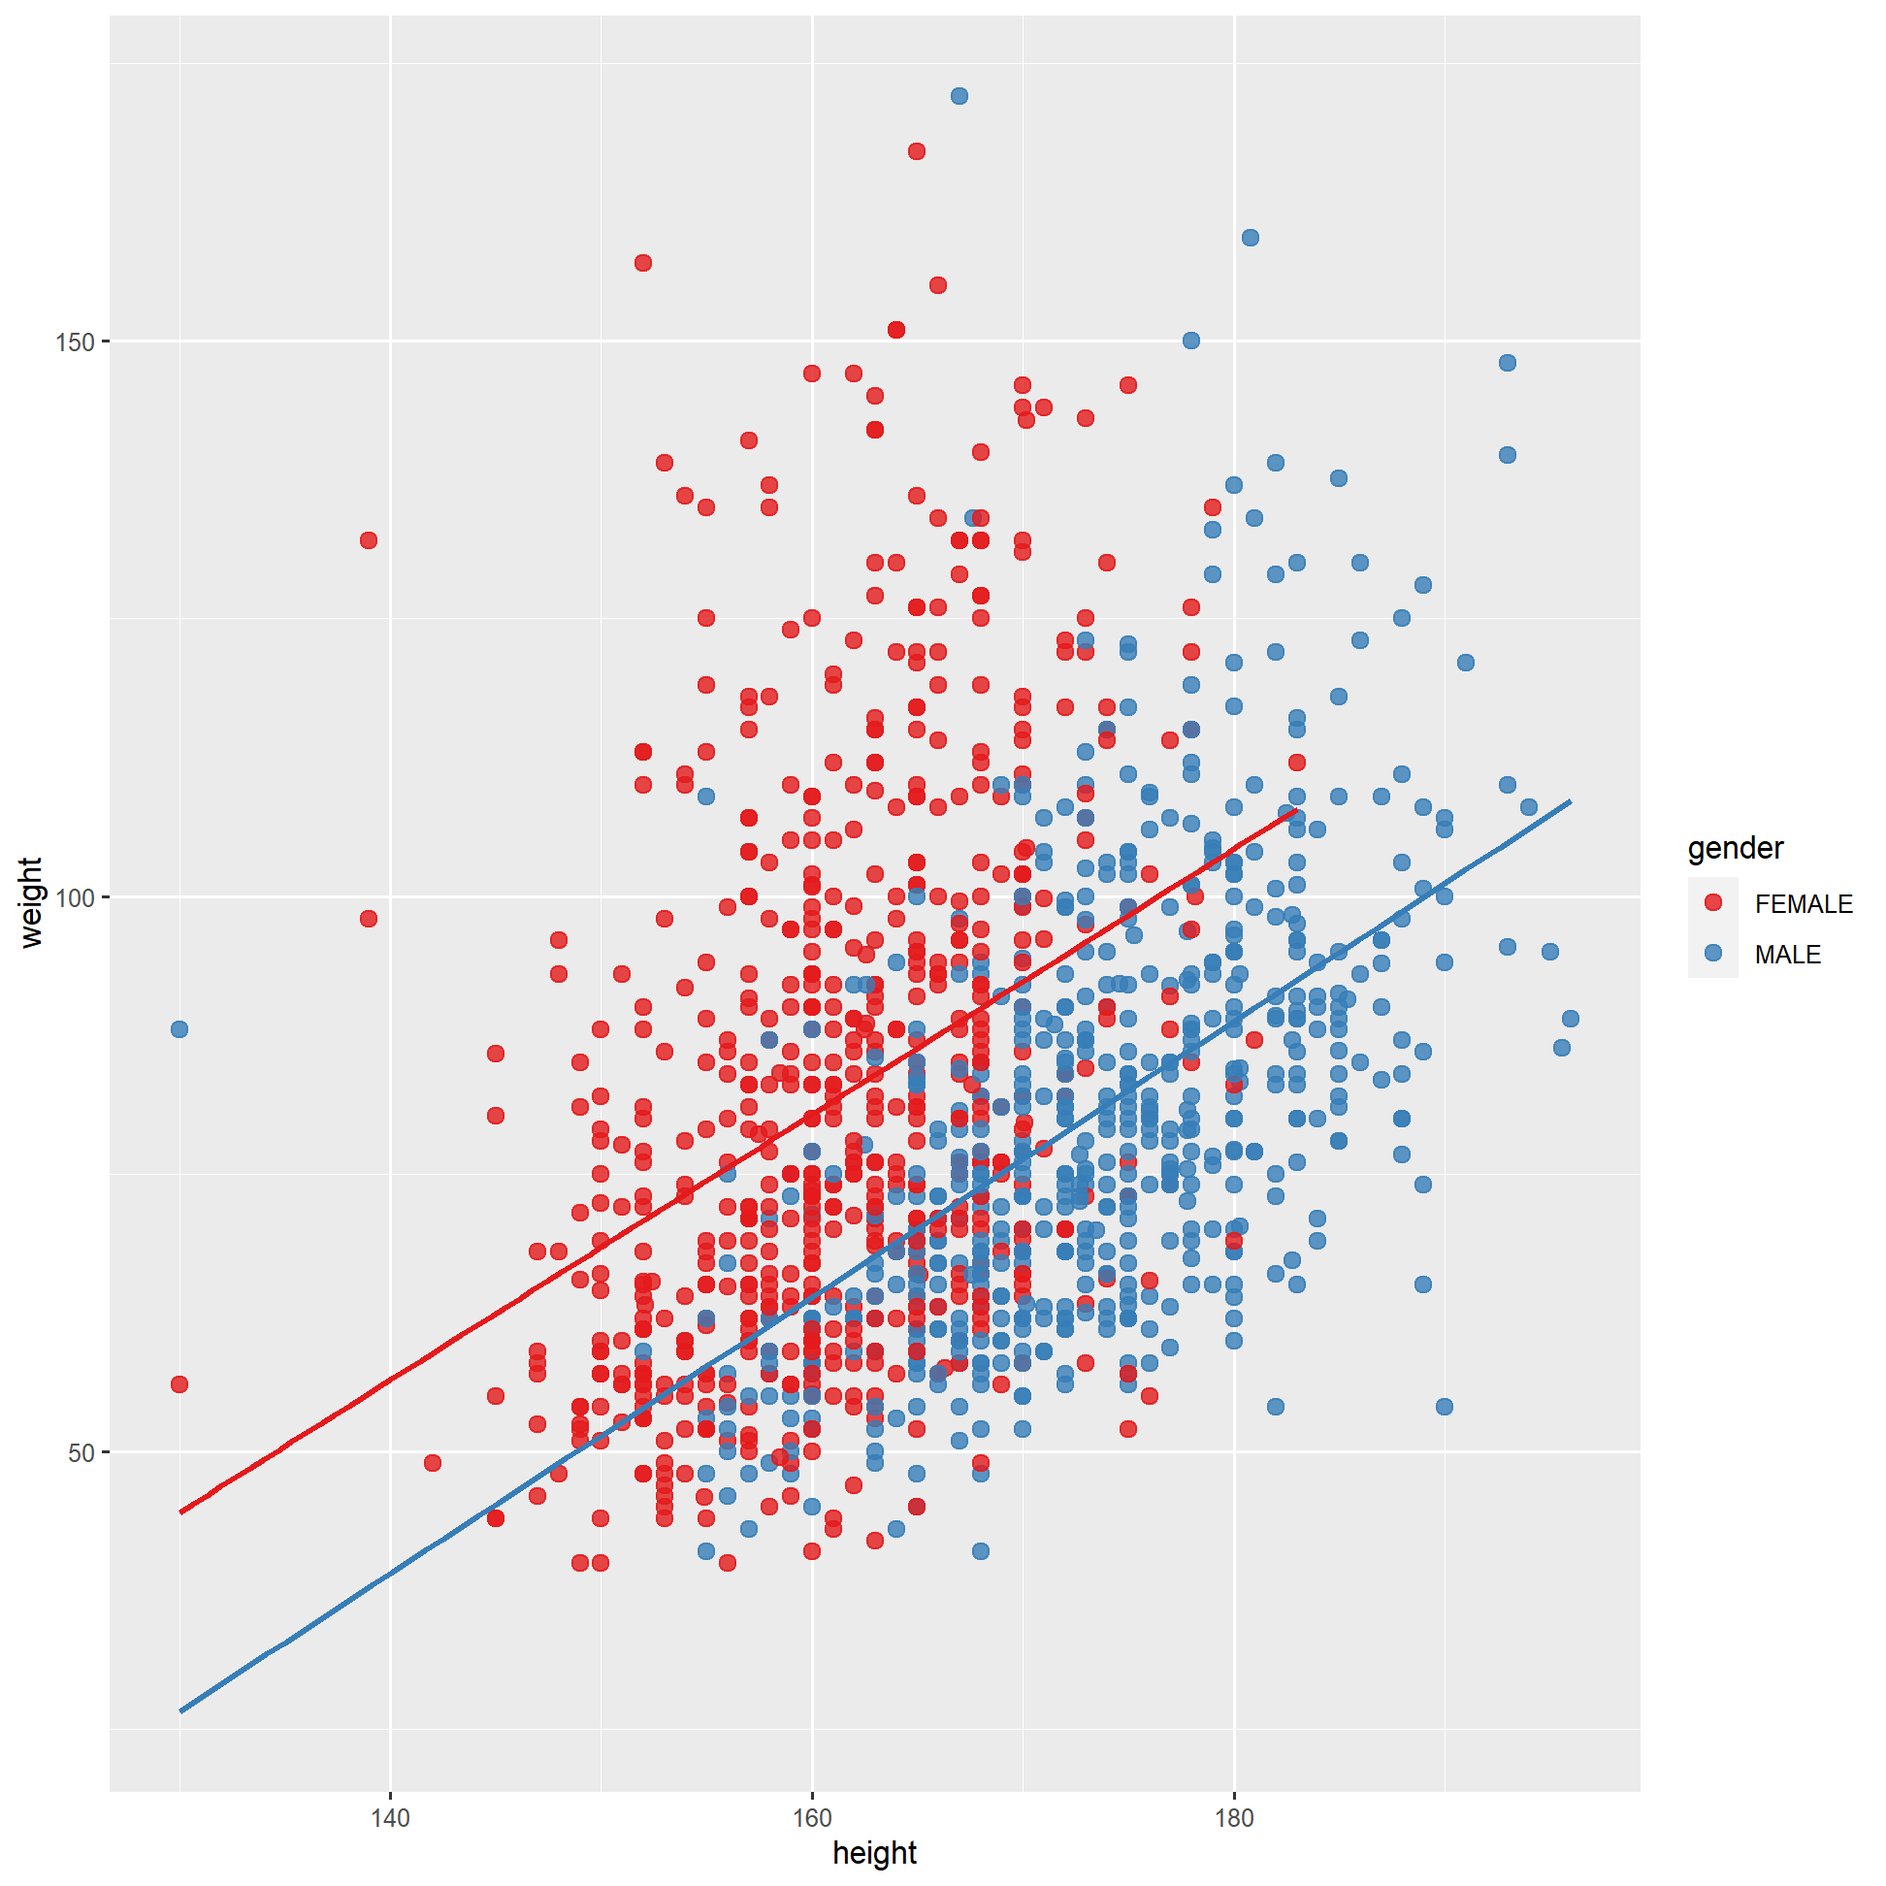
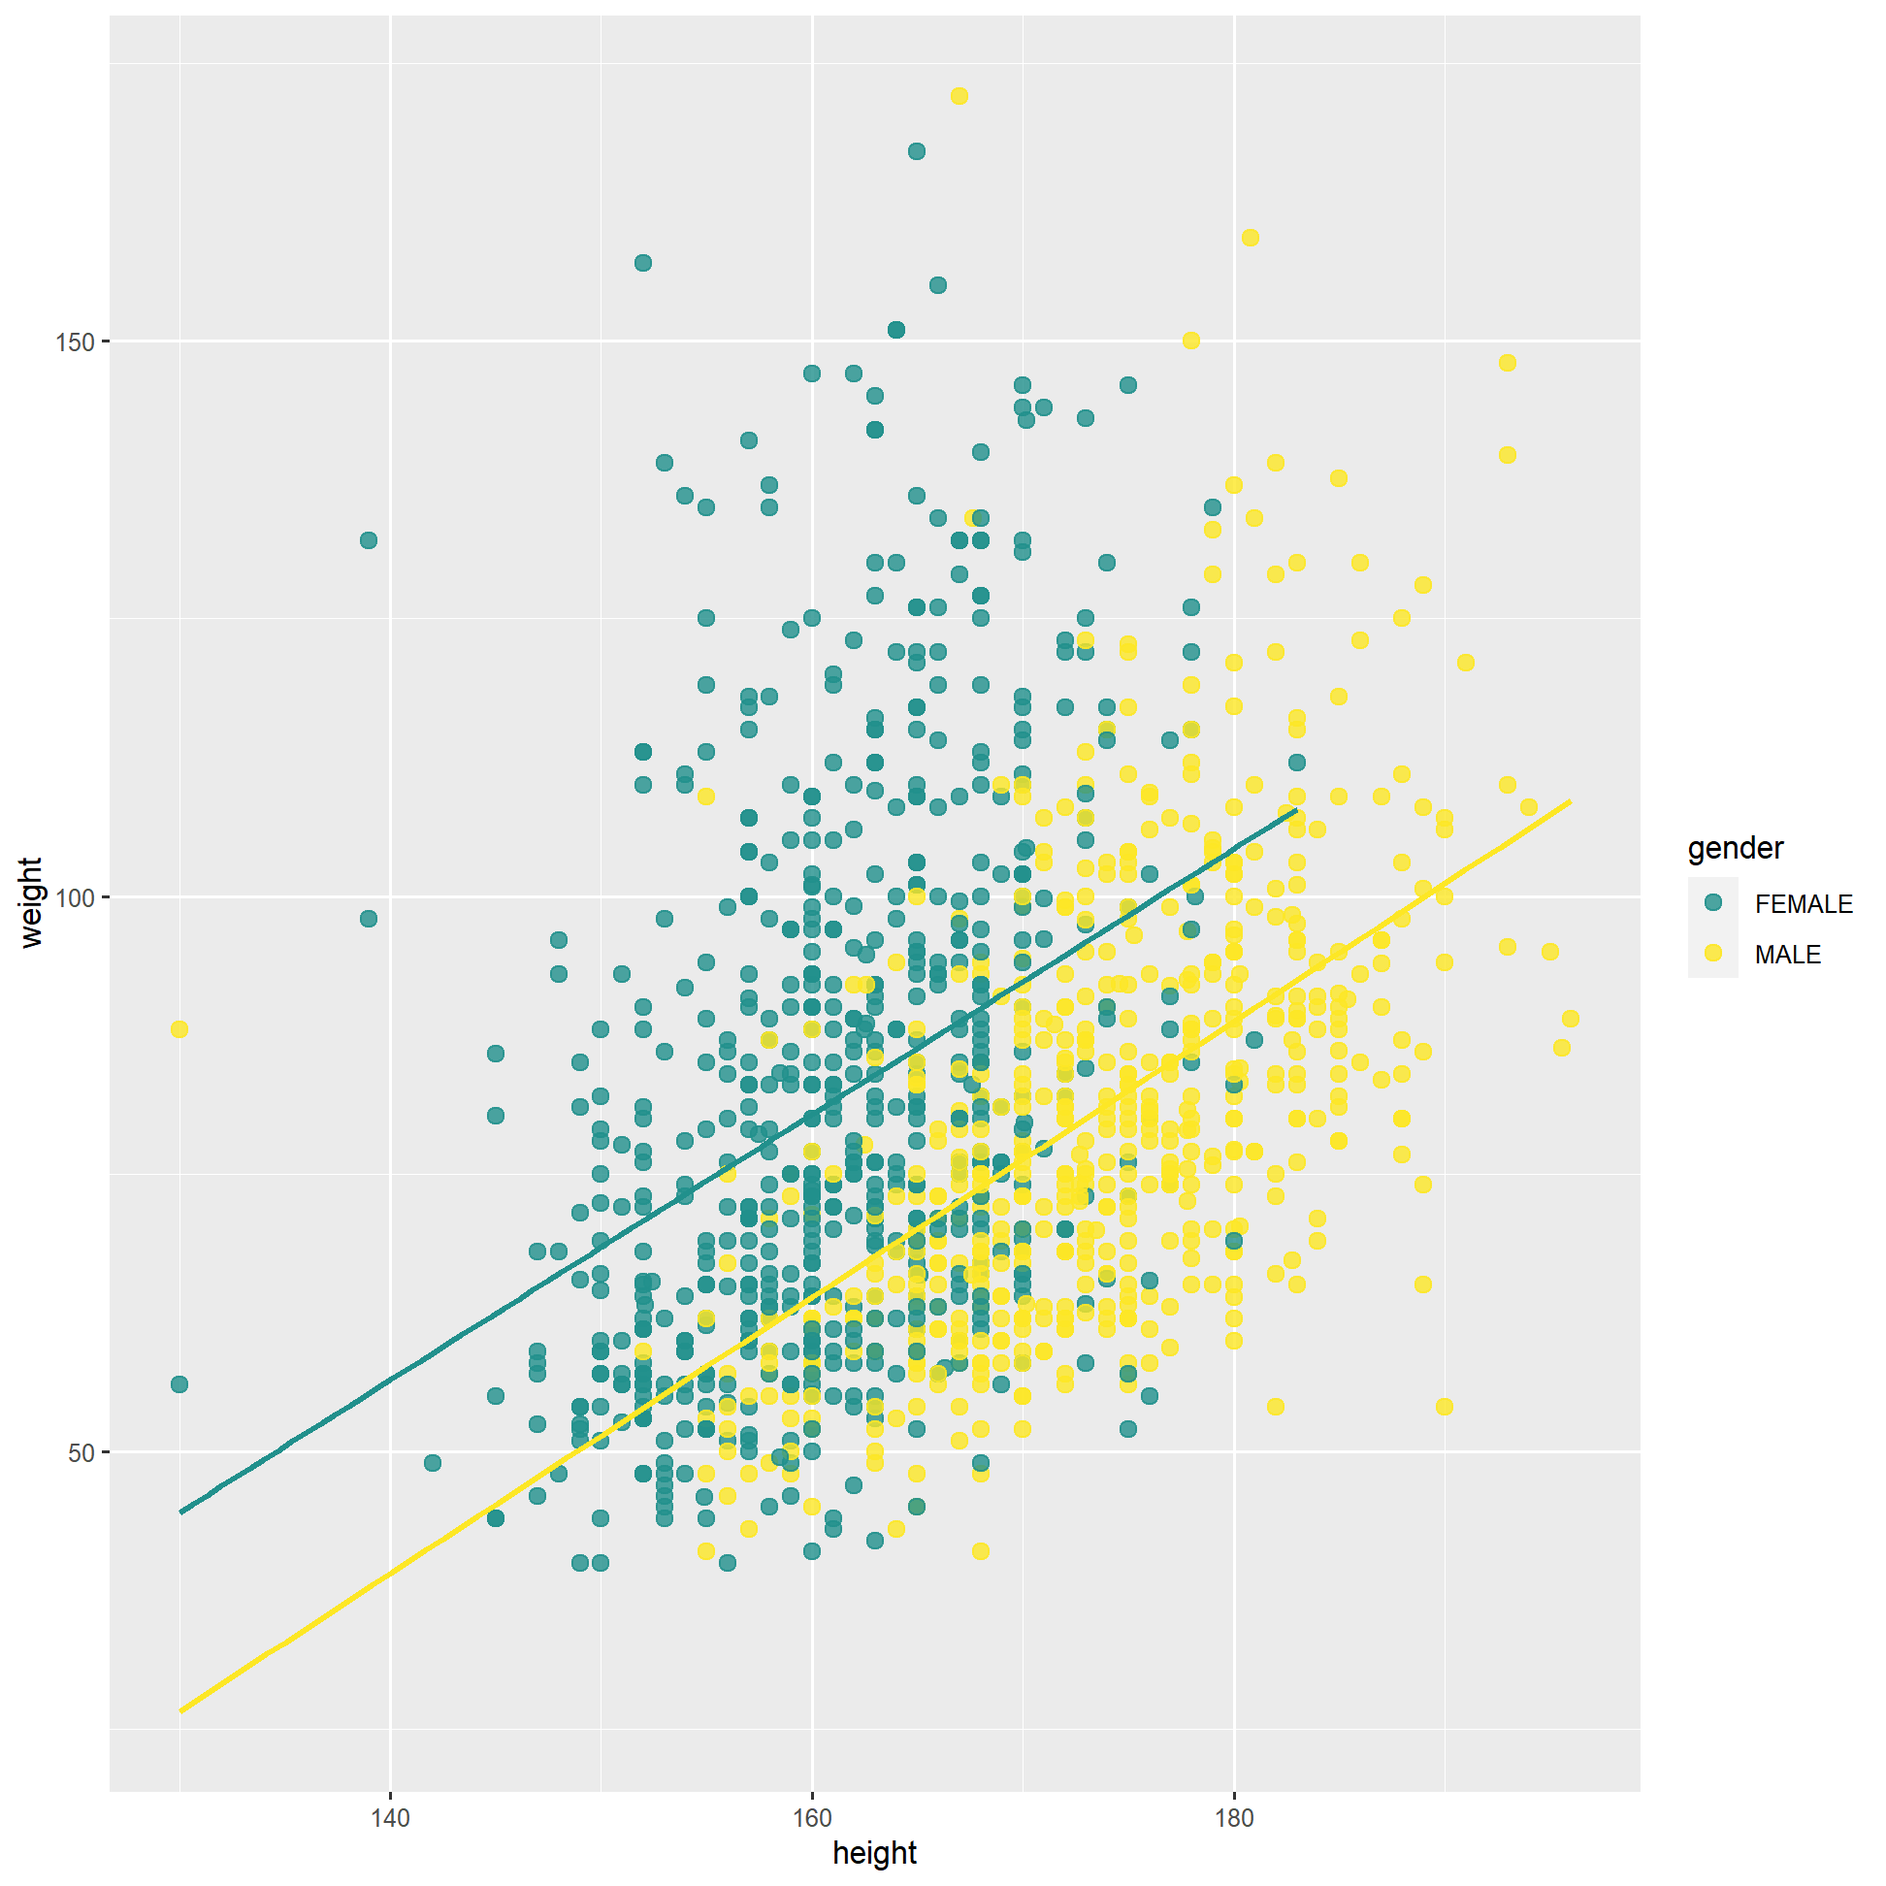
Edit last plot in the slides

diff --git a/slides/04_slide-datavisualization.html b/slides/04_slide-datavisualization.html
@@ -11,7 +11,7 @@
     <link href="libs/animate.css/animate.xaringan.css" rel="stylesheet" />
     <link href="libs/panelset/panelset.css" rel="stylesheet" />
     <script src="libs/panelset/panelset.js"></script>
-    <script type="application/json" id="xaringanExtra-editable-docid">{"id":"fd1c26c2d2f24e189c76d55d9825ad54","expires":14}</script>
+    <script type="application/json" id="xaringanExtra-editable-docid">{"id":"f415d6eb820548a9a6953afc8b14f4ef","expires":14}</script>
     <script src="libs/himalaya/himalaya.js"></script>
     <script src="libs/js-cookie/js.cookie.js"></script>
     <link href="libs/editable/editable.css" rel="stylesheet" />
@@ -285,12 +285,14 @@ ggplot(
 ]
 ]
 ---
-### [geom catalogue](https://ggplot2.tidyverse.org/reference/index.html#section-layers)
+### [&lt;svg viewBox="0 0 512 512" style="position:relative;display:inline-block;top:.1em;fill:skyblue;height:0.7em;" xmlns="http://www.w3.org/2000/svg"&gt;  &lt;path d="M326.612 185.391c59.747 59.809 58.927 155.698.36 214.59-.11.12-.24.25-.36.37l-67.2 67.2c-59.27 59.27-155.699 59.262-214.96 0-59.27-59.26-59.27-155.7 0-214.96l37.106-37.106c9.84-9.84 26.786-3.3 27.294 10.606.648 17.722 3.826 35.527 9.69 52.721 1.986 5.822.567 12.262-3.783 16.612l-13.087 13.087c-28.026 28.026-28.905 73.66-1.155 101.96 28.024 28.579 74.086 28.749 102.325.51l67.2-67.19c28.191-28.191 28.073-73.757 0-101.83-3.701-3.694-7.429-6.564-10.341-8.569a16.037 16.037 0 0 1-6.947-12.606c-.396-10.567 3.348-21.456 11.698-29.806l21.054-21.055c5.521-5.521 14.182-6.199 20.584-1.731a152.482 152.482 0 0 1 20.522 17.197zM467.547 44.449c-59.261-59.262-155.69-59.27-214.96 0l-67.2 67.2c-.12.12-.25.25-.36.37-58.566 58.892-59.387 154.781.36 214.59a152.454 152.454 0 0 0 20.521 17.196c6.402 4.468 15.064 3.789 20.584-1.731l21.054-21.055c8.35-8.35 12.094-19.239 11.698-29.806a16.037 16.037 0 0 0-6.947-12.606c-2.912-2.005-6.64-4.875-10.341-8.569-28.073-28.073-28.191-73.639 0-101.83l67.2-67.19c28.239-28.239 74.3-28.069 102.325.51 27.75 28.3 26.872 73.934-1.155 101.96l-13.087 13.087c-4.35 4.35-5.769 10.79-3.783 16.612 5.864 17.194 9.042 34.999 9.69 52.721.509 13.906 17.454 20.446 27.294 10.606l37.106-37.106c59.271-59.259 59.271-155.699.001-214.959z"&gt;&lt;/path&gt;&lt;/svg&gt; geom catalogue](https://ggplot2.tidyverse.org/reference/index.html#section-layers)
 
 
 
-<div id="htmlwidget-2b988d63e9f5825952c9" style="width:100%;height:auto;" class="datatables html-widget"></div>
-<script type="application/json" data-for="htmlwidget-2b988d63e9f5825952c9">{"x":{"filter":"none","fillContainer":false,"data":[["geom_abline(), geom_hline(), geom_vline()","geom_bar(), geom_col()","geom_bin2d()","geom_blank()","geom_boxplot()","geom_contour(), geom_contour_filled()","geom_count()","geom_density()","geom_density_2d(), geom_density_2d_filled()","geom_dotplot()","geom_errorbarh()","geom_function()","geom_hex()","geom_freqpoly(), geom_histogram()","geom_jitter()","geom_crossbar(), geom_errorbar(), geom_linerange(), geom_pointrange()","geom_map()","geom_path(), geom_line(), geom_step()","geom_point()","geom_polygon()","geom_qq_line(), geom_qq()","geom_quantile()","geom_ribbon(), geom_area()","geom_rug()","geom_segment(), geom_curve()","geom_smooth()","geom_spoke()","geom_label(), geom_text()","geom_raster(), geom_rect(), geom_tile()","geom_violin()","coord_sf(), geom_sf(), geom_sf_label(), geom_sf_text()"],["Reference lines: horizontal, vertical, and diagonal","Bar charts","Heatmap of 2d bin counts","Draw nothing","A box and whiskers plot (in the style of Tukey)","2D contours of a 3D surface","Count overlapping points","Smoothed density estimates","Contours of a 2D density estimate","Dot plot","Horizontal error bars","Draw a function as a continuous curve","Hexagonal heatmap of 2d bin counts","Histograms and frequency polygons","Jittered points","Vertical intervals: lines, crossbars &amp; errorbars","Polygons from a reference map","Connect observations","Points","Polygons","A quantile-quantile plot","Quantile regression","Ribbons and area plots","Rug plots in the margins","Line segments and curves","Smoothed conditional means","Line segments parameterised by location, direction and distance","Text","Rectangles","Violin plot","Visualise sf objects"]],"container":"<table class=\"display\">\n  <thead>\n    <tr>\n      <th>geom<\/th>\n      <th>description<\/th>\n    <\/tr>\n  <\/thead>\n<\/table>","options":{"pageLength":6,"dom":"ftp","order":[],"autoWidth":false,"orderClasses":false,"lengthMenu":[6,10,25,50,100]}},"evals":[],"jsHooks":[]}</script>
+
+
+<div id="htmlwidget-7e2e1f528c0e937f1c37" style="width:100%;height:auto;" class="datatables html-widget"></div>
+<script type="application/json" data-for="htmlwidget-7e2e1f528c0e937f1c37">{"x":{"filter":"none","fillContainer":false,"data":[["geom_abline(), geom_hline(), geom_vline()","geom_bar(), geom_col()","geom_bin2d()","geom_blank()","geom_boxplot()","geom_contour(), geom_contour_filled()","geom_count()","geom_density()","geom_density_2d(), geom_density_2d_filled()","geom_dotplot()","geom_errorbarh()","geom_function()","geom_hex()","geom_freqpoly(), geom_histogram()","geom_jitter()","geom_crossbar(), geom_errorbar(), geom_linerange(), geom_pointrange()","geom_map()","geom_path(), geom_line(), geom_step()","geom_point()","geom_polygon()","geom_qq_line(), geom_qq()","geom_quantile()","geom_ribbon(), geom_area()","geom_rug()","geom_segment(), geom_curve()","geom_smooth()","geom_spoke()","geom_label(), geom_text()","geom_raster(), geom_rect(), geom_tile()","geom_violin()","coord_sf(), geom_sf(), geom_sf_label(), geom_sf_text()"],["Reference lines: horizontal, vertical, and diagonal","Bar charts","Heatmap of 2d bin counts","Draw nothing","A box and whiskers plot (in the style of Tukey)","2D contours of a 3D surface","Count overlapping points","Smoothed density estimates","Contours of a 2D density estimate","Dot plot","Horizontal error bars","Draw a function as a continuous curve","Hexagonal heatmap of 2d bin counts","Histograms and frequency polygons","Jittered points","Vertical intervals: lines, crossbars &amp; errorbars","Polygons from a reference map","Connect observations","Points","Polygons","A quantile-quantile plot","Quantile regression","Ribbons and area plots","Rug plots in the margins","Line segments and curves","Smoothed conditional means","Line segments parameterised by location, direction and distance","Text","Rectangles","Violin plot","Visualise sf objects"]],"container":"<table class=\"display\">\n  <thead>\n    <tr>\n      <th>geom<\/th>\n      <th>description<\/th>\n    <\/tr>\n  <\/thead>\n<\/table>","options":{"pageLength":6,"dom":"ftp","order":[],"autoWidth":false,"orderClasses":false,"lengthMenu":[6,10,25,50,100]}},"evals":[],"jsHooks":[]}</script>
 
 ---
 ### Statistics layer
@@ -340,13 +342,13 @@ p2 &lt;- ggplot(
 ]
 
 ---
-### [stat catalogue](https://ggplot2.tidyverse.org/reference/index.html#section-layers)
+### [&lt;svg viewBox="0 0 512 512" style="position:relative;display:inline-block;top:.1em;fill:skyblue;height:0.7em;" xmlns="http://www.w3.org/2000/svg"&gt;  &lt;path d="M326.612 185.391c59.747 59.809 58.927 155.698.36 214.59-.11.12-.24.25-.36.37l-67.2 67.2c-59.27 59.27-155.699 59.262-214.96 0-59.27-59.26-59.27-155.7 0-214.96l37.106-37.106c9.84-9.84 26.786-3.3 27.294 10.606.648 17.722 3.826 35.527 9.69 52.721 1.986 5.822.567 12.262-3.783 16.612l-13.087 13.087c-28.026 28.026-28.905 73.66-1.155 101.96 28.024 28.579 74.086 28.749 102.325.51l67.2-67.19c28.191-28.191 28.073-73.757 0-101.83-3.701-3.694-7.429-6.564-10.341-8.569a16.037 16.037 0 0 1-6.947-12.606c-.396-10.567 3.348-21.456 11.698-29.806l21.054-21.055c5.521-5.521 14.182-6.199 20.584-1.731a152.482 152.482 0 0 1 20.522 17.197zM467.547 44.449c-59.261-59.262-155.69-59.27-214.96 0l-67.2 67.2c-.12.12-.25.25-.36.37-58.566 58.892-59.387 154.781.36 214.59a152.454 152.454 0 0 0 20.521 17.196c6.402 4.468 15.064 3.789 20.584-1.731l21.054-21.055c8.35-8.35 12.094-19.239 11.698-29.806a16.037 16.037 0 0 0-6.947-12.606c-2.912-2.005-6.64-4.875-10.341-8.569-28.073-28.073-28.191-73.639 0-101.83l67.2-67.19c28.239-28.239 74.3-28.069 102.325.51 27.75 28.3 26.872 73.934-1.155 101.96l-13.087 13.087c-4.35 4.35-5.769 10.79-3.783 16.612 5.864 17.194 9.042 34.999 9.69 52.721.509 13.906 17.454 20.446 27.294 10.606l37.106-37.106c59.271-59.259 59.271-155.699.001-214.959z"&gt;&lt;/path&gt;&lt;/svg&gt; stat catalogue](https://ggplot2.tidyverse.org/reference/index.html#section-layers)
 
 
 
 
-<div id="htmlwidget-ad702ad8d42704aef474" style="width:100%;height:auto;" class="datatables html-widget"></div>
-<script type="application/json" data-for="htmlwidget-ad702ad8d42704aef474">{"x":{"filter":"none","fillContainer":false,"data":[["stat_count()","stat_bin_2d()","stat_boxplot()","stat_contour(), stat_contour_filled()","stat_sum()","stat_density()","stat_density_2d(), stat_density_2d_filled()","stat_function()","stat_bin_hex()","stat_bin()","stat_qq_line(), stat_qq()","stat_quantile()","stat_smooth()","stat_ydensity()","stat_sf()","stat_ecdf()","stat_ellipse()","geom_function(), stat_function()","stat_identity()","stat_summary_2d(), stat_summary_hex()","stat_summary_bin(), stat_summary()","stat_unique()","stat_sf_coordinates()","after_stat(), after_scale(), stage()"],["Bar charts","Heatmap of 2d bin counts","A box and whiskers plot (in the style of Tukey)","2D contours of a 3D surface","Count overlapping points","Smoothed density estimates","Contours of a 2D density estimate","Draw a function as a continuous curve","Hexagonal heatmap of 2d bin counts","Histograms and frequency polygons","A quantile-quantile plot","Quantile regression","Smoothed conditional means","Violin plot","Visualise sf objects","Compute empirical cumulative distribution","Compute normal data ellipses","Draw a function as a continuous curve","Leave data as is","Bin and summarise in 2d (rectangle &amp; hexagons)","Summarise y values at unique/binned x","Remove duplicates","Extract coordinates from 'sf' objects","Control aesthetic evaluation"]],"container":"<table class=\"display\">\n  <thead>\n    <tr>\n      <th>stat<\/th>\n      <th>description<\/th>\n    <\/tr>\n  <\/thead>\n<\/table>","options":{"pageLength":6,"dom":"ftp","order":[],"autoWidth":false,"orderClasses":false,"lengthMenu":[6,10,25,50,100]}},"evals":[],"jsHooks":[]}</script>
+<div id="htmlwidget-b6b3aa561f02e8b61aa7" style="width:100%;height:auto;" class="datatables html-widget"></div>
+<script type="application/json" data-for="htmlwidget-b6b3aa561f02e8b61aa7">{"x":{"filter":"none","fillContainer":false,"data":[["stat_count()","stat_bin_2d()","stat_boxplot()","stat_contour(), stat_contour_filled()","stat_sum()","stat_density()","stat_density_2d(), stat_density_2d_filled()","stat_function()","stat_bin_hex()","stat_bin()","stat_qq_line(), stat_qq()","stat_quantile()","stat_smooth()","stat_ydensity()","stat_sf()","stat_ecdf()","stat_ellipse()","geom_function(), stat_function()","stat_identity()","stat_summary_2d(), stat_summary_hex()","stat_summary_bin(), stat_summary()","stat_unique()","stat_sf_coordinates()","after_stat(), after_scale(), stage()"],["Bar charts","Heatmap of 2d bin counts","A box and whiskers plot (in the style of Tukey)","2D contours of a 3D surface","Count overlapping points","Smoothed density estimates","Contours of a 2D density estimate","Draw a function as a continuous curve","Hexagonal heatmap of 2d bin counts","Histograms and frequency polygons","A quantile-quantile plot","Quantile regression","Smoothed conditional means","Violin plot","Visualise sf objects","Compute empirical cumulative distribution","Compute normal data ellipses","Draw a function as a continuous curve","Leave data as is","Bin and summarise in 2d (rectangle &amp; hexagons)","Summarise y values at unique/binned x","Remove duplicates","Extract coordinates from 'sf' objects","Control aesthetic evaluation"]],"container":"<table class=\"display\">\n  <thead>\n    <tr>\n      <th>stat<\/th>\n      <th>description<\/th>\n    <\/tr>\n  <\/thead>\n<\/table>","options":{"pageLength":6,"dom":"ftp","order":[],"autoWidth":false,"orderClasses":false,"lengthMenu":[6,10,25,50,100]}},"evals":[],"jsHooks":[]}</script>
 
 ---
 ### Scales layer
@@ -858,8 +860,8 @@ ggplot(
   geom_smooth(
     method = "lm", se = FALSE,
     show.legend = FALSE) +
-* scale_color_brewer(
-*   palette = "Set1")
+* scale_color_viridis_d(
+*   begin = 0.5, end = 1)
 ```
 ]
  
@@ -884,8 +886,8 @@ ggplot(
   geom_smooth(
     method = "lm", se = FALSE,
     show.legend = FALSE) +
-  scale_color_brewer(
-    palette = "Set1") +
+  scale_color_viridis_d(
+    begin = 0.5, end = 1) +
 * labs(
 *   x = "Weight (kg)",
 *   y = "Height (cm)")
@@ -913,8 +915,8 @@ ggplot(
   geom_smooth(
     method = "lm", se = FALSE,
     show.legend = FALSE) +
-  scale_color_brewer(
-    palette = "Set1") +
+  scale_color_viridis_d(
+    begin = 0.5, end = 1) +
   labs(
     x = "Weight (kg)",
     y = "Height (cm)") +
@@ -943,8 +945,8 @@ ggplot(
   geom_smooth(
     method = "lm", se = FALSE,
     show.legend = FALSE) +
-  scale_color_brewer(
-    palette = "Set1") +
+  scale_color_viridis_d(
+    begin = 0.5, end = 1) +
   labs(
     x = "Weight (kg)",
     y = "Height (cm)") +
